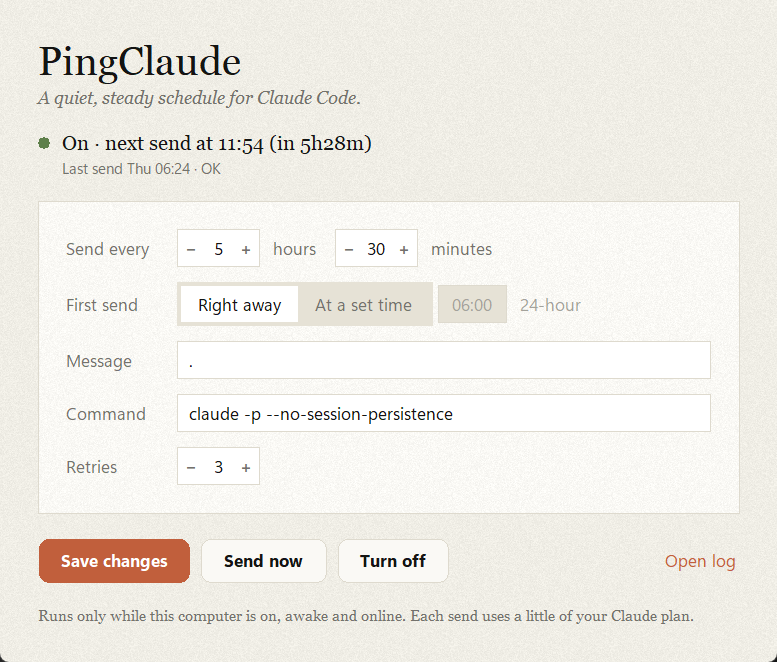
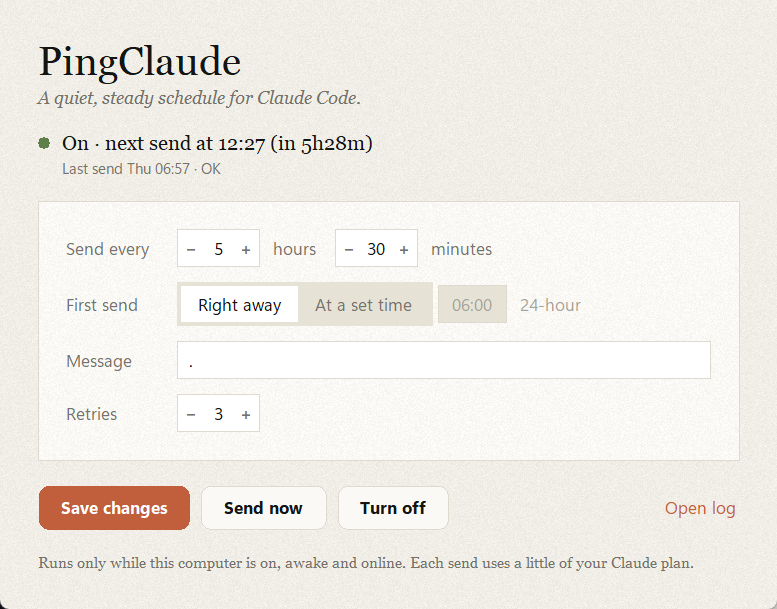
docs: explain starting the usage window before work
Lead with the purpose: start a session window ahead of time so it resets
mid-workday. Add a worked example and tips for choosing times.

diff --git a/README.md b/README.md
@@ -1,9 +1,17 @@
 # pingclaude
 
-A small local tool that sends a short message (`.` by default) to Claude Code on a
-fixed schedule, every **5h30m** unless you change it. It runs the official `claude`
-CLI with **your own existing login**: you set it once (or press one button) and it
-keeps going by itself, including after you restart your computer.
+**Start your Claude usage window before you start working.**
+
+Claude's usage limits run in session windows that begin with your first message. If
+your first message of the day is the moment you sit down to work, the window opens
+then, and once you hit the limit you're stuck waiting for it to reset. pingclaude sends
+a tiny message (`.`) for you **ahead of time**, so a window is already running when you
+start. You use up that window, it resets partway through your workday, and you
+continue on a fresh one. [See how it works below.](#why)
+
+It runs the official `claude` CLI with **your own existing login**. You set it once
+(or press one button) and it keeps going by itself, every **5h30m** by default,
+including after you restart your computer.
 
 - Works on **Windows, macOS and Linux**
 - **One-button setup** with a small settings window, or a full command line if you prefer
@@ -45,10 +53,49 @@ keeps going by itself, including after you restart your computer.
 
 ## Why
 
-Claude plans measure usage in time windows. Some people like their window to start
-at a predictable time, for example a little before they begin work, instead of
-whenever they happen to send their first message. pingclaude does that by sending a
-tiny message on a schedule you choose.
+### The problem
+
+On Claude's paid plans, usage is measured in **session windows** of about **5 hours**.
+A window starts with your **first message**. Within one window you can only use so
+much; once you hit the limit, you wait until the window resets.
+
+So if you sit down at 10:00 and send your first message then, your window runs from
+10:00 to 15:00. Have a heavy morning, hit the limit at 12:00, and you're **stuck until
+15:00**, three hours with no Claude in the middle of your workday.
+
+### The fix
+
+Start the window **before** you start working. pingclaude sends a single `.` at a time
+you choose, so the window is already running when you sit down. You use that window,
+it resets during your workday, and your next message starts a **fresh** one.
+
+### Example: a 10:00–17:00 workday
+
+| | Without pingclaude | With pingclaude (first send at 07:00) |
+|---|---|---|
+| 07:00 | – | pingclaude sends `.`, so **window 1 starts** (07:00–12:00) |
+| 10:00 | You start; **window 1 starts** (10:00–15:00) | You start; window 1 has 2 hours left |
+| 12:00 | You hit the limit and **wait until 15:00** | Window 1 ends; your next message starts **window 2** (12:00–17:00) with a full limit |
+| 15:00 | Window resets; you get 2 hours before 17:00 | Still working on window 2 |
+| **Result** | 3 hours blocked in the middle of the day | A full window for the first 2 hours, then **another full window** for the rest of the day |
+
+You get roughly **two windows' worth** of usage in one workday instead of being cut
+off halfway. Nothing is used up by the ping itself beyond one tiny message.
+
+### Choosing your times
+
+- **First send:** about **2–3 hours before you start work**. Pick a time when your
+  computer is on and awake: the ping can't be sent while it's off or asleep.
+  - Start at 09:00 → first send around 06:00–07:00.
+  - Start at 13:00 → first send around 10:00–11:00.
+- **Gap:** the default **5h30m** sends the next ping just after a window would have
+  ended, so if you're away, a new window starts again shortly after. If you're working
+  at the time, the ping lands inside your current window and changes nothing.
+- **Just want a window running whenever you log in?** Choose **Right away** for
+  the first send.
+
+> Anthropic sets and can change how usage windows and limits work. Check the current
+> details for your plan; pingclaude only sends the message, it doesn't change your limits.
 
 ## Requirements
 
@@ -94,7 +141,8 @@ pip install ".[tray]"      # core + tray icon
    - **macOS:** double-click **`PingClaude.command`** (the first time, right-click it,
      choose **Open**, then **Open** again, because macOS blocks unsigned scripts on first launch)
    - **Linux / any OS:** `python3 pingclaude.py gui`
-2. Choose the gap and when the first message should go out.
+2. Choose when the first message should go out (about 2–3 hours before you start
+   work; see [Choosing your times](#choosing-your-times)) and the gap.
 3. Press **Turn on** and confirm.
 
 Done. pingclaude starts in the background right away and again every time you log in.
@@ -127,10 +175,11 @@ that works depends on **where** you ask, because Claude needs to run commands on
 ```text
 Install pingclaude from https://github.com/hasanulzaydd/pingclaude on this computer.
 Clone it into a permanent folder, follow the "Steps for Claude" section of its README,
-and turn it on with a 5h30m gap and the first send right away.
+and turn it on with a 5h30m gap and the first send at 07:00.
 ```
 
-Change the gap or add a start time (e.g. "first send at 06:00") to taste.
+Pick a first-send time about 2–3 hours before you usually start work, or say
+"right away" to start a window whenever you log in.
 
 **What to expect:**
 - Claude Code asks your permission before running commands. That's normal; read
@@ -179,12 +228,15 @@ settings.
 | **Send every** | The gap between messages, in hours and minutes. Use **−** / **+** or type a number (minutes step by 5). |
 | **First send** | A toggle: **Right away**, or **At a set time** with an HH:MM box next to it (24-hour clock). See [start times](#start-times). |
 | **Message** | The text to send. Default `.` |
-| **Command** | The command that does the sending. Default `claude -p --no-session-persistence`. |
 | **Retries** | How many extra attempts after a failure (60 seconds apart), 0–20. Default 3. |
 | **Turn on** / **Save changes** | Saves the settings, sets up auto-start (asks first, showing exactly what it will create) and starts it. If it's already on, the button reads **Save changes**: it just saves, and the running copy uses the new settings within 30 seconds. |
 | **Turn off** | Stops it and removes auto-start (asks first). Your settings are kept. |
 | **Send now** | Sends one message immediately, without changing the schedule. |
 | **Open log** | Opens the log file. |
+
+The window doesn't show the command that does the sending, so it can't be broken by
+accident. It always uses `claude -p --no-session-persistence` unless you've changed it
+from the [command line](#flags).
 
 ## Command line
 
@@ -216,7 +268,7 @@ project folder as `python pingclaude.py …` (or `python3` on macOS/Linux), or j
 | `--start-at HH:MM` | send now | run, install, config | First send at the next occurrence of this local time. `now` clears it. |
 | `--count N` | forever | run | Stop after N sends. |
 | `--retries N` | `3` | run, send, install, config | Extra attempts after a failure, 60s apart (0–20). |
-| `--command CMD` | `claude -p --no-session-persistence` | run, send, install, config | The command to run. The message is added as the last argument. |
+| `--command CMD` | `claude -p --no-session-persistence` | run, send, install, config | Advanced: the command to run. The message is added as the last argument. `default` (or an empty value) puts the default back. |
 | `--dry-run` | off | run | Log what would happen, but send nothing. |
 | `-y`, `--yes` | off | install, uninstall | Don't ask for confirmation. |
 | `--tray` | off | install | Auto-start the tray icon instead of the hidden runner. |
@@ -244,6 +296,9 @@ python pingclaude.py config --start-at now
 
 # Use a specific model for the pings
 python pingclaude.py config --command "claude -p --no-session-persistence --model haiku"
+
+# Put the default command back
+python pingclaude.py config --command default
 
 # Check on it
 python pingclaude.py status
@@ -273,7 +328,7 @@ Settings live in `~/.pingclaude/config.json` (on Windows,
 | `message` | text | What to send. Must not be empty. |
 | `start_at` | `"HH:MM"` or `null` | Time of the first send, or `null` for right away. |
 | `retries` | number 0–20 | Extra attempts after a failure. |
-| `command` | text | The command to run; the message is appended. |
+| `command` | text | The command to run; the message is appended. Empty or `"default"` means the default. |
 
 You can edit the file by hand, use the window, or use `pingclaude config`. Invalid
 values are rejected with a clear message. If you break the file while pingclaude
